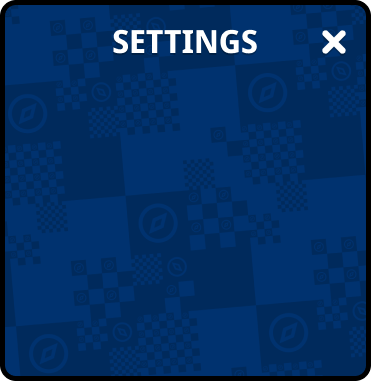
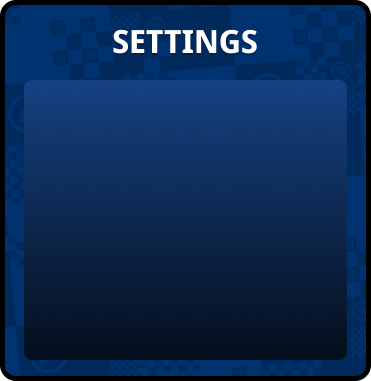
Implement Pause Screen

diff --git a/src/com/screens/PauseScreen.java b/src/com/screens/PauseScreen.java
@@ -1,24 +1,16 @@
 package com.screens;
 
-import com.commons.Coordinate;
-import com.commons.GameType;
-import com.commons.Globals;
 import com.controllers.mouse.SwitchScreen;
-import com.models.Card;
-import javafx.event.EventHandler;
 import javafx.scene.control.Button;
-import javafx.scene.control.Label;
 import javafx.scene.image.Image;
 import javafx.scene.image.ImageView;
-import javafx.scene.input.MouseEvent;
-import javafx.scene.layout.Background;
-import javafx.scene.layout.Pane;
 import javafx.stage.Stage;
-
-import java.util.Random;
+import javafx.scene.shape.Rectangle;
 
 
 public class PauseScreen extends Screen {
+
+    private SwitchScreen switchScreen;
 
     public PauseScreen(Stage primaryStage) {
         super(primaryStage);
@@ -27,58 +19,62 @@ public class PauseScreen extends Screen {
 
     @Override
     public void initHandlers() {
-
+        this.switchScreen = new SwitchScreen(primaryStage);
     }
 
     @Override
     public void display() {
+
         this.getChildren().clear();
 
-        // Create Pause screen
-        this.setPrefSize(1025, 768);
-        ImageView imageViewBackground = new ImageView(new Image("/resources/assets/images/background.png"));
-        imageViewBackground.setFitWidth(1024);
-        imageViewBackground.setFitHeight(786);
-        this.setStyle("-fx-background-color: transparent; -fx-border-color: transparent; -fx-padding: 0;");
+        // Create a semi-transparent black rectangle
+        Rectangle overlay = new Rectangle(1024, 768);
+        overlay.setFill(javafx.scene.paint.Color.rgb(0, 0, 0, 0.5)); // Black with 50% opacity
 
-        ImageView imageViewOuterPanel = new ImageView(new Image("/resources/assets/images/OuterPanel.png"));
-        imageViewOuterPanel.setFitWidth(371);
-        imageViewOuterPanel.setFitHeight(381);
+        // Add outer panel
+        ImageView imageViewSettingPanel = new ImageView(new Image("/resources/assets/images/OuterPanel.png"));
+        imageViewSettingPanel.setFitWidth(371);
+        imageViewSettingPanel.setFitHeight(381);
 
-        ImageView imageViewInnerPanel = new ImageView(new Image("/resources/assets/images/InnerPanel.png"));
-        imageViewOuterPanel.setFitWidth(323);
-        imageViewOuterPanel.setFitHeight(280);
-
+        // Create quit button
         Button quitButton = new Button();
-        ImageView imageViewQuitButton = new ImageView(new Image("/resources/assets/images/quitButton.png"));
+        ImageView imageViewQuitButton = new ImageView(new Image("/resources/assets/images/QuitButtonSetting.png"));
         imageViewQuitButton.setFitWidth(130);
-        imageViewQuitButton.setFitHeight(50);
+        imageViewQuitButton.setFitHeight(55);
         quitButton.setGraphic(imageViewQuitButton);
         quitButton.setStyle("-fx-background-color: transparent; -fx-border-color: transparent; -fx-padding: 0;");
 
+        // Create resume button
         Button resumeButton = new Button();
-        ImageView imageViewResumeButton = new ImageView(new Image("/resources/assets/images/quitButton.png"));
+        ImageView imageViewResumeButton = new ImageView(new Image("/resources/assets/images/ResumeButtonSetting.png"));
         imageViewResumeButton.setFitWidth(130);
-        imageViewResumeButton.setFitHeight(50);
+        imageViewResumeButton.setFitHeight(55);
         resumeButton.setGraphic(imageViewResumeButton);
         resumeButton.setStyle("-fx-background-color: transparent; -fx-border-color: transparent; -fx-padding: 0;");
 
+        // Create cross button
+        Button crossButton = new Button();
+        ImageView imageViewCrossButton = new ImageView(new Image("/resources/assets/images/Icon_Cross.png"));
+        imageViewCrossButton.setFitWidth(26);
+        imageViewCrossButton.setFitHeight(26);
+        crossButton.setGraphic(imageViewCrossButton);
+        crossButton.setStyle("-fx-background-color: transparent; -fx-border-color: transparent; -fx-padding: 0;");
 
-        imageViewOuterPanel.setLayoutX(314);
-        imageViewOuterPanel.setLayoutY(193);
+        imageViewSettingPanel.setLayoutX(314);
+        imageViewSettingPanel.setLayoutY(193);
 
-        imageViewInnerPanel.setLayoutX(24);
-        imageViewInnerPanel.setLayoutY(77);
+        quitButton.setLayoutX(358);
+        quitButton.setLayoutY(474);
 
-        quitButton.setLayoutX(37.5);
-        quitButton.setLayoutY(5.21);
+        resumeButton.setLayoutX(512);
+        resumeButton.setLayoutY(474);
 
-        resumeButton.setLayoutX(37.5);
-        resumeButton.setLayoutY(5.21);
+        crossButton.setLayoutX(637);
+        crossButton.setLayoutY(220);
 
-        this.getChildren().addAll(imageViewBackground, imageViewOuterPanel, imageViewInnerPanel, quitButton, quitButton);
+        this.getChildren().addAll(overlay, imageViewSettingPanel, quitButton, resumeButton, crossButton);
+        System.out.println("Pause screen components added.");
 
-        // this.setVisible(false);
 
         this.primaryStage.getScene().setRoot(this);
     }

diff --git a/src/com/screens/GameScreen.java b/src/com/screens/GameScreen.java
@@ -123,7 +123,10 @@ public class GameScreen extends Screen {
 //        });
 //        pauseScreen.display();
 
-        //iconSettingButton.setOnMouseClicked(this.switchScreen.setScreen(new PauseScreen(primaryStage)));
+        iconSettingButton.setOnMouseClicked(event -> {
+            System.out.println("Setting button press");
+            new SwitchScreen(primaryStage, new PauseScreen(primaryStage)).run(); // Switch to the PauseScreen when clicked
+        });
 
         generateCardButton.setLayoutX(75);
         generateCardButton.setLayoutY(0);
